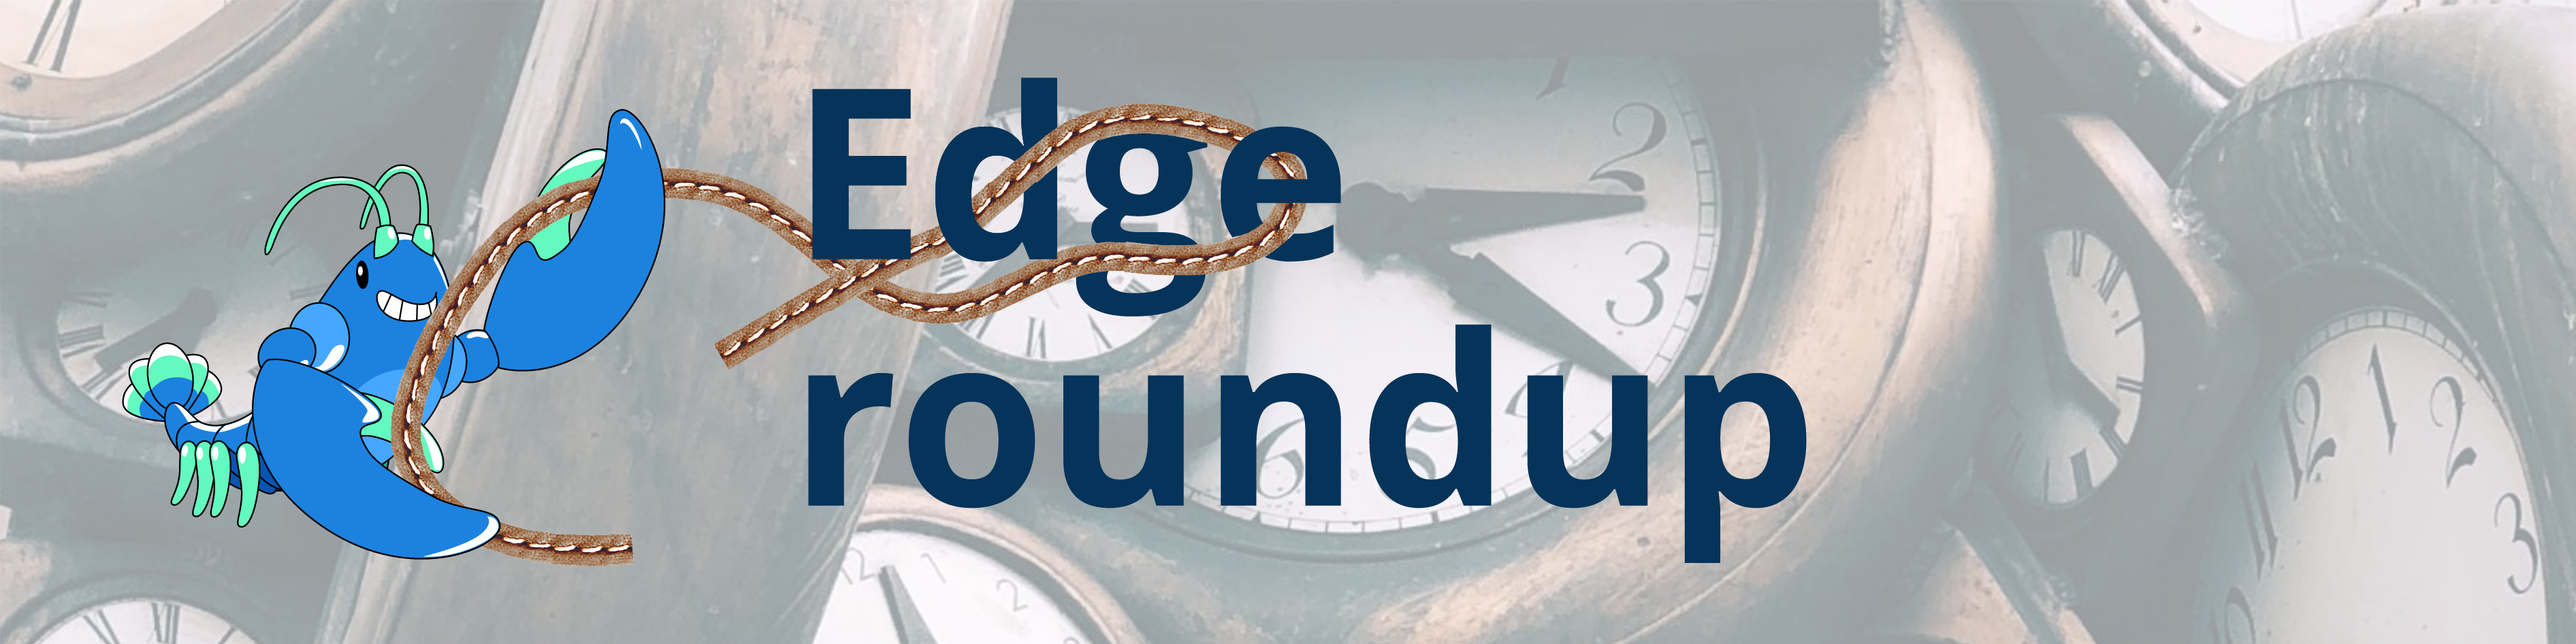
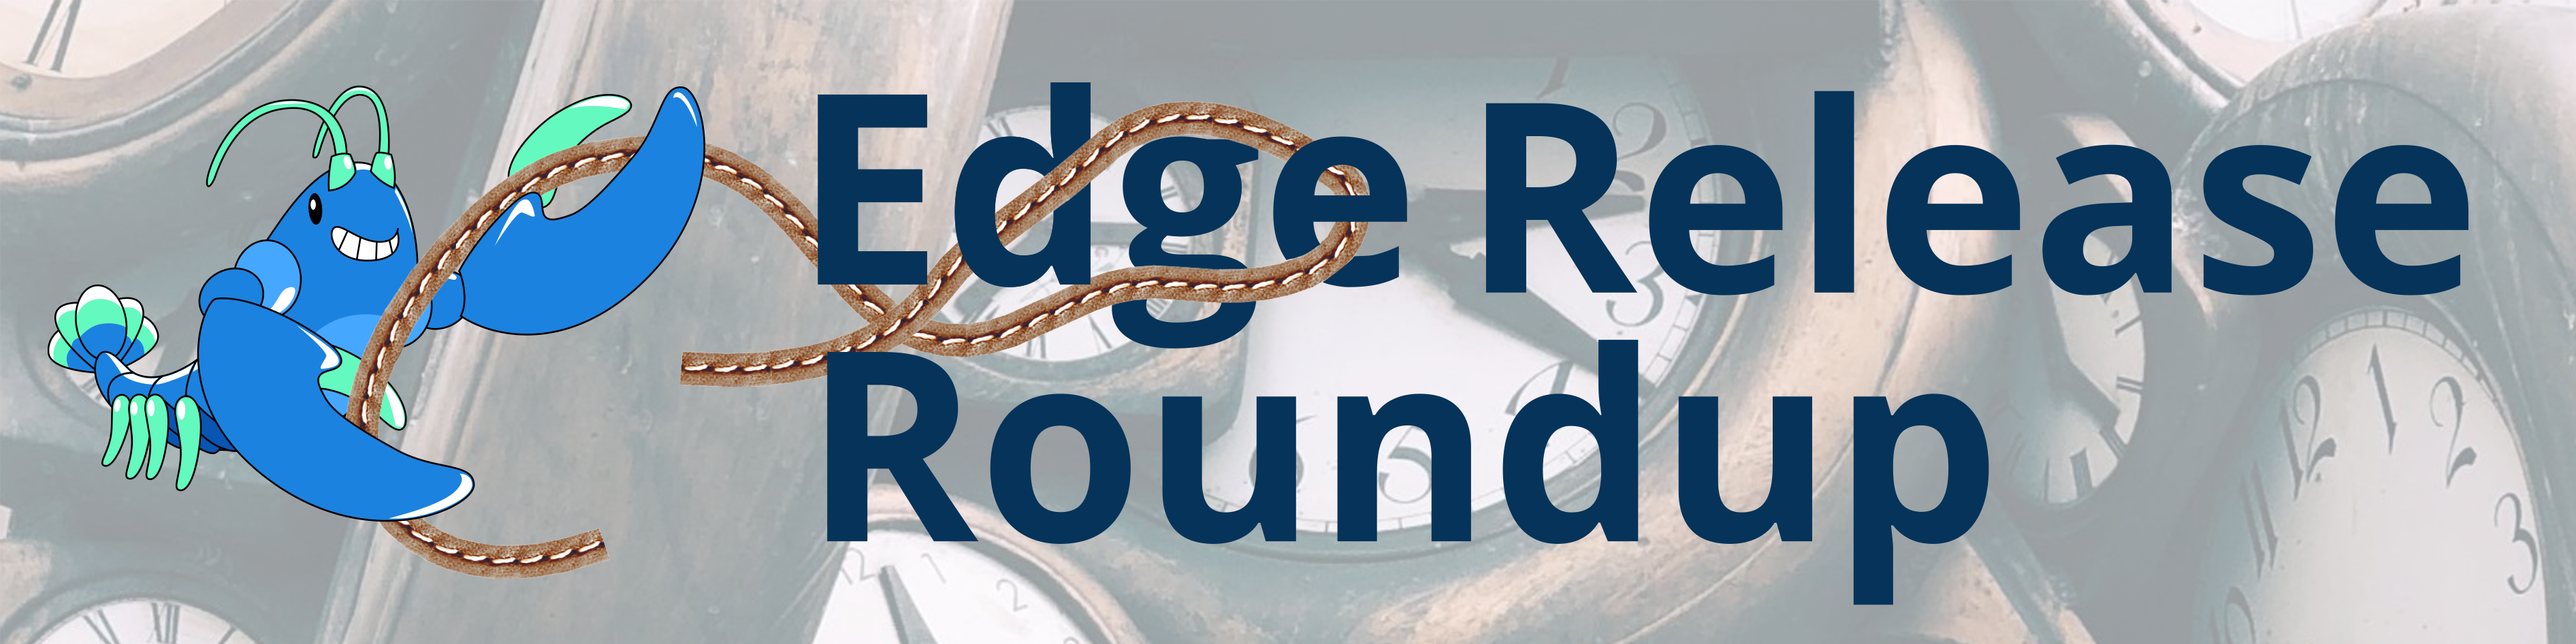
20230807 Edge Release Roundup (#1652)
* 20230807 Edge Release Roundup

* Sigh. "make lint" passes locally but not in CI!

* Address review feedback

* Update Edge Release Roundup image

* Address more review feedback.

* Drop some unused link targets.

* Don't feature the edge roundup or the Linkerd Hero.

---------

Changed region(s): [[0.0, 0.1226, 0.9667, 0.9503], [0.0624, 0.1839, 0.0936, 0.2759]]

diff --git a/linkerd.io/content/blog/2023/0807-edge-release-roundup.md b/linkerd.io/content/blog/2023/0807-edge-release-roundup.md
@@ -1,0 +1,188 @@
+---
+author: 'alejandro'
+date: 2023-08-07T00:00:00Z
+title: |-
+  Linkerd Edge Release Roundup: August 2023
+url:
+  /2023/08/07/linkerd-edge-release-roundup/
+thumbnail: '/uploads/2023/06/roundup-clocks-square.png'
+featuredImage: '/uploads/2023/06/roundup-clocks-rect.png'
+tags: [Linkerd, linkerd, edge, release, roundup]
+featured: false
+---
+
+{{< fig
+  alt="August Linkerd Edge Release Roundup"
+  src="/uploads/2023/06/roundup-clocks-rect.png" >}}
+
+Linkerd’s edge releases are a big part of our development process, and there
+have been a lot of them - five! - since our last edge-release roundup. The
+plan is do these roundups more frequently to keep things manageable, but for
+this one, we'll hit some highlights and then do a release-by-release list at
+the end.
+
+## Community Contributions
+
+We couldn't do what we do without the Linkerd community, and this batch of
+releases is definitely no exception. Huge thanks to [@hiteshwani29], [Abhijeet
+Gaurav], [Grégoire Bellon-Gervais], [Harsh Soni], [Jean-Charles Legras], and
+[Miguel Elias dos Santos] for their contributions across a wide range of
+areas, from the Linkerd CLI to host networking! You'll find more information
+about all of these contributions in the release-by-release details below.
+
+[@hiteshwani29]:https://github.com/hiteshwani29
+[Abhijeet Gaurav]:https://github.com/abhijeetgauravm
+[Grégoire Bellon-Gervais]:https://github.com/albundy83
+[Harsh Soni]:https://github.com/harsh020
+[Jean-Charles Legras]:https://github.com/jclegras
+[Miguel Elias dos Santos]:https://github.com/migueleliasweb
+
+## Gateway API
+
+From the feature perspective, our main focus over the last several edge
+releases has been improving our Gateway API support, bringing us closer to
+feature parity between [HTTPRoutes] and [ServiceProfiles]:
+
+- We added support for the Gateway API's `gateway.networking.k8s.io` APIGroup
+  to Linkerd in edge-23.7.1 on July 7th. This is a major step toward
+  conformance with the Gateway API's [Mesh profile]. (We're not turning off
+  support for `policy.linkerd.io` though, that's still quite a ways away.)
+
+- We added support for HTTPRoutes defined in the namespace from which a route
+  is called in edge-23.7.3 on July 28th. The Gateway API calls these
+  [_consumer routes_][consumer-routes] since the use case is, usually, doing
+  things like overriding the timeout for a workload you're calling. You can
+  learn more about this in the [Gateway API Mesh routing
+  documentation][gamma-routing].
+
+- We also made HTTPRoute `parentRefs` port numbers optional in edge-23.7.3,
+  per the [HTTPRoute standard].
+
+- Finally, we started adding support for [HTTPRoute filters]:
+  `RequestHeaderModifier` and `RequestRedirect` are supported in edge-23.7.2,
+  and `ResponseHeaderModifier` is supported in edge-23.7.3 (so edge-23.7.2
+  added header modifications for _requests_, and edge-23.7.3 added header
+  modifications for _responses_).
+
+[HTTPRoutes]:https://gateway-api.sigs.k8s.io/api-types/httproute/
+[HTTPRoute standard]:https://gateway-api.sigs.k8s.io/references/spec/#gateway.networking.k8s.io/v1alpha2.HTTPRoute
+[ServiceProfiles]:https://linkerd.io/2.13/features/service-profiles/
+[consumer-routes]:https://gateway-api.sigs.k8s.io/concepts/glossary/#consumer-route
+[gamma-routing]:https://gateway-api.sigs.k8s.io/concepts/gamma/#how-the-gateway-api-works-for-service-mesh
+[Mesh profile]:https://gateway-api.sigs.k8s.io/geps/gep-1686/
+[HTTPRoute filters]:https://gateway-api.sigs.k8s.io/references/spec/#gateway.networking.k8s.io/v1beta1.HTTPRouteFilter
+
+## Fixes
+
+Of the many fixes in these five releases, two in particular stand out:
+
+1. In edge-23.7.3, we fixed a race condition where the Linkerd destination
+   controller could panic in an environment with high churn of Endpoints or
+   Servers. The most common effect here is seeing restarts of the destination
+   controller Pods, but it could also result in traffic being sent to the
+   wrong destination endpoints.
+
+   This is covered in Linkerd issue [#11163].
+
+2. In edge-23.8.1, we raised the default capacities of the HTTP request queues
+   (both inbound and outbound) back to 10,000 after lowering them for Linkerd
+   2.13. The effect here is that in situations where a single destination
+   workload needed to accept a lot of concurrent traffic, the Linkerd proxies
+   would decide that they had too much load, and start shedding it by dropping
+   connections. This happened much more agressively in Linkerd 2.13 than in
+   Linkerd 2.12; it's fixed in edge-23.8.1.
+
+   This is covered in Linkerd issue [#11055] and PR [#11198].
+
+[#11163]:https://github.com/linkerd/linkerd2/issues/11163
+[#11055]:https://github.com/linkerd/linkerd2/issues/11055
+[#11198]:https://github.com/linkerd/linkerd2/pull/11198
+
+## Installing the Latest Edge Release
+
+```bash
+curl --proto '=https' --tlsv1.2 -sSfL https://run.linkerd.io/install-edge | sh
+```
+
+## How to give feedback
+
+We would be delighted to hear how these releases work out for you! The full
+changelogs are at
+<https://github.com/linkerd/linkerd2/releases/tag/edge-23.6.3>,
+<https://github.com/linkerd/linkerd2/releases/tag/edge-23.7.1>,
+<https://github.com/linkerd/linkerd2/releases/tag/edge-23.7.2>,
+<https://github.com/linkerd/linkerd2/releases/tag/edge-23.7.3>, and
+<https://github.com/linkerd/linkerd2/releases/tag/edge-23.8.1>. We’d love to
+hear your feedback on [Slack](https://slack.linkerd.io) or at the new [Buoyant
+Linkerd Forum](https://linkerd.buoyant.io). Looking forward to hearing from
+you – happy meshing!!
+
+## Release Details
+
+- edge-23.6.3, on June 30th, was all about a couple of community contributions:
+
+  - [@hiteshwani29] added JSONpath output to `linkerd viz tap`.
+
+  - [Jean-Charles Legras] fixed a proxy startup failure that could happen with
+    the `config.linkerd.io/admin-port` annotation.
+
+- edge-23.7.1, on July 7th, started our Gateway API theme and also made a
+  couple of fixes:
+
+  - We added support for the Gateway API's `gateway.networking.k8s.io`
+    APIGroup to Linkerd (a major step toward conformance with the Gateway
+    API's [Mesh profile]).
+
+  - We fixed a problem where the ingress-mode proxy wouldn't always correctly
+    use ServiceProfiles for destinations with no HTTPRoutes.
+
+  - We added distinguishable version information to the proxy's logs and metrics.
+
+- edge-23.7.2, on July 13th, continued the Gateway API theme and pulled in a
+  community fix:
+
+  - We added support for HTTPRoute's `RequestHeaderModifier` and
+    `RequestRedirect` [filters].
+
+  - [Miguel Elias dos Santos] fixed a `linkerd-cni` chart problem that could
+    block the CNI pods from coming up when the injector was broken.
+
+- edge-23.7.3, on July 28th, was our largest edge release: it had a lot of
+  Gateway API work and several fixes.
+
+  - We made HTTPRoute `parentRefs` port numbers optional, per the [HTTPRoute
+    standard].
+
+  - We added support for Gateway API [_consumer routes_][consumer-routes].
+
+  - We added support for HTTPRoute's `ResponseHeaderModifier`
+    [filter][HTTPRoute filters].
+
+  - [Grégoire Bellon-Gervais] fixed a Grafana error caused by an incorrect
+    datasource.
+
+  - [Harsh Soni] fixed the linkerd extension CLI commands so that they prefer
+    the `--register` flag over the `LINKERD_DOCKER_REGISTRY` environment
+    variable, for consistency.
+
+  - We fixed a race condition that could cause the destination controller to
+    panic.
+
+  - We added high-availability mode for the multicluster service mirror, and
+    further improved control-plane logging.
+
+  - We added support for disabling the network validator security context if
+    you're in an environment that defines its own security context.
+
+- Last but not least: edge-23.8.1, on August 3rd, brought in a couple of
+  very important bugfixes:
+
+  - [Abhijeet Gaurav] made it possible to use the `linkerd-cni` DaemonSet
+    without needing host networking support.
+
+  - We raised the default capacities of the HTTP request queues back to
+    10,000.
+
+----
+
+_Linkerd generally does new edge releases weekly; watch this space to keep up-to-date. Feedback on this blog series is welcome! Just ping `@flynn` on the [Linkerd Slack](https://slack.linkerd.io)._

diff --git a/linkerd.io/content/blog/_index.md b/linkerd.io/content/blog/_index.md
@@ -7,8 +7,8 @@ tags:
   - Tutorials &amp; How-To's
   - Video
 items:
-  - blog/2023/0725-linkerd-hero.md
   - blog/2023/0720-flat-networks.md
+  - blog/2023/0713-linkerd-in-production.md
 description: Read the latest blog posts covering the Linkerd service mesh, from technical tutorials to announcements to what’s next on the roadmap.
 keywords: []
 ---
